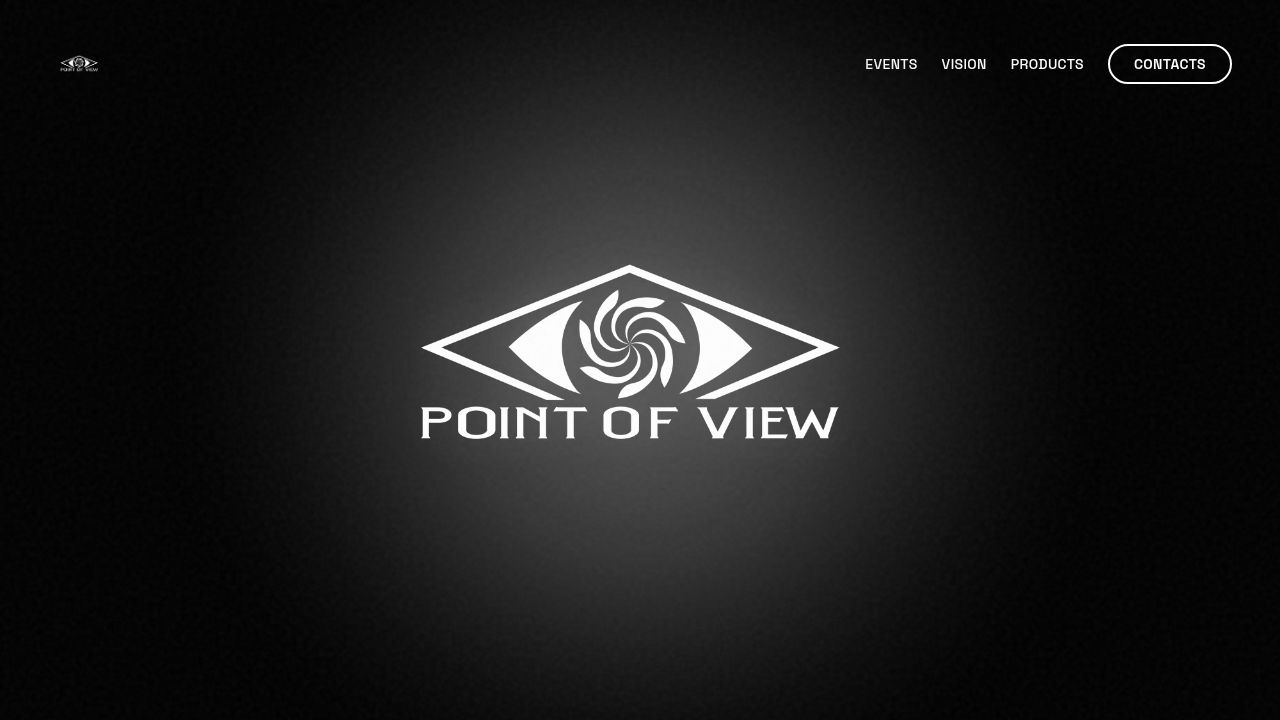
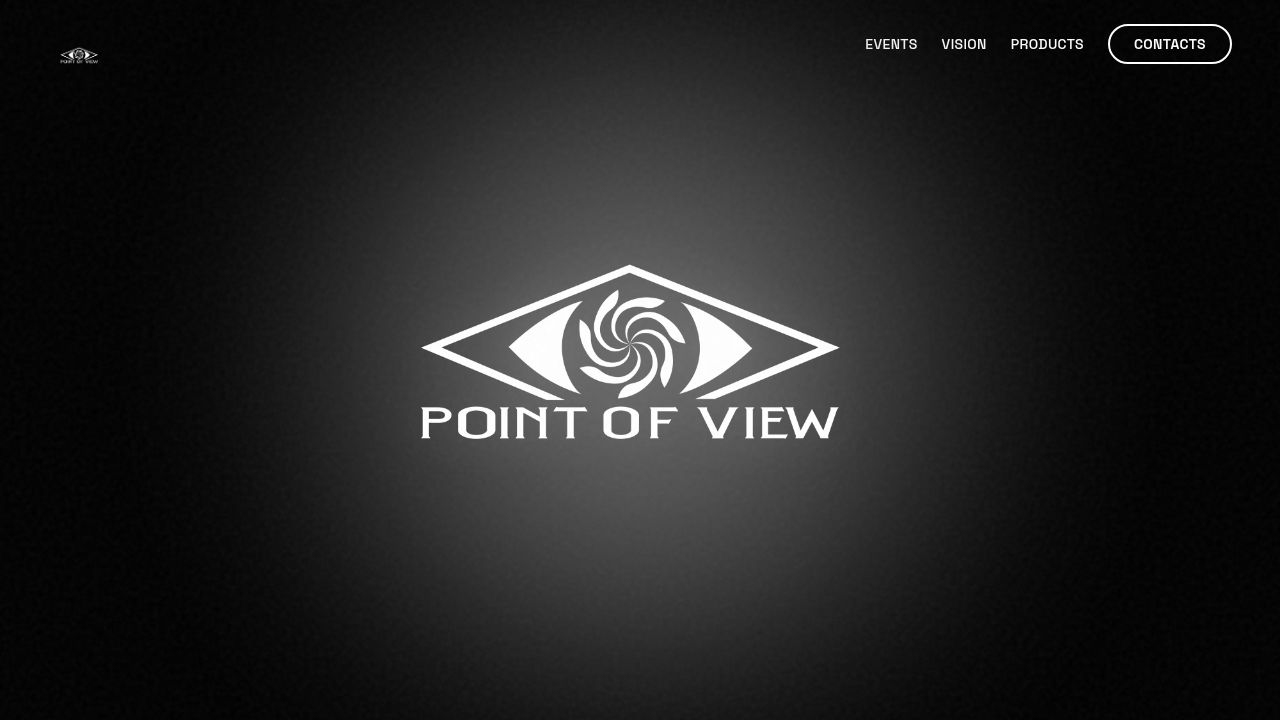
Update website layout and navigation for a streamlined user experience
Refactors the Footer, Navbar, Merch, and Upcoming sections.

Replit-Commit-Author: Agent
Replit-Commit-Session-Id: a3b98cef-a506-47ad-bfb3-af8684fe960b
Replit-Commit-Checkpoint-Type: full_checkpoint
Replit-Commit-Event-Id: 0f6fac4e-ea59-4f10-81f3-7915d06ba4cc
Replit-Commit-Screenshot-Url: https://storage.googleapis.com/screenshot-production-us-central1/5c714bc7-a615-4a5b-9aed-13d4d2fb1a74/a3b98cef-a506-47ad-bfb3-af8684fe960b/TEuVTtT
Replit-Helium-Checkpoint-Created: true

Changed region(s): [[0.6562, 0.0306, 0.9688, 0.1222], [0.0312, 0.0611, 0.0938, 0.0917]]

diff --git a/client/src/components/layout/Footer.tsx b/client/src/components/layout/Footer.tsx
@@ -1,18 +1,54 @@
+import { motion } from "framer-motion";
+
 export default function Footer() {
   return (
-    <footer id="contacts" className="py-12 px-6 md:px-12 bg-black border-t border-white/10 text-white">
-      <div className="max-w-7xl mx-auto flex flex-col md:flex-row justify-between items-center gap-8">
-        <div className="flex flex-col items-center md:items-start gap-2">
-          <h2 className="text-2xl font-display font-bold tracking-tight uppercase">Point Of View</h2>
-          <p className="text-xs text-white/40 font-body uppercase tracking-widest">
-            © {new Date().getFullYear()} Barcelona
-          </p>
+    <footer id="contacts" className="relative bg-black border-t border-white/10 text-white overflow-hidden">
+      {/* Creative Logo Background / Watermark */}
+      <div className="absolute top-1/2 left-1/2 -translate-x-1/2 -translate-y-1/2 opacity-[0.03] pointer-events-none w-[150vw] md:w-[80vw] max-w-[1200px] aspect-square flex items-center justify-center">
+        <motion.img 
+          src="/assets/logo-v2.png" 
+          alt="" 
+          className="w-full h-full object-contain mix-blend-screen filter grayscale"
+          animate={{ rotate: 360 }}
+          transition={{ duration: 100, repeat: Infinity, ease: "linear" }}
+        />
+      </div>
+
+      <div className="relative z-10 py-32 md:py-48 px-6 md:px-12 flex flex-col items-center justify-center text-center">
+        <span className="block text-xs font-bold uppercase tracking-widest text-white/50 mb-8">
+          (05) Connection
+        </span>
+        
+        <a 
+          href="https://www.instagram.com/pointofview.events/" 
+          target="_blank" 
+          rel="noopener noreferrer"
+          className="group block mb-12"
+        >
+          <h2 className="text-5xl md:text-8xl lg:text-9xl font-display font-black uppercase tracking-tighter leading-none hover:text-transparent hover:text-stroke transition-all duration-500">
+            Follow<br />The Vision
+          </h2>
+        </a>
+
+        <a 
+          href="mailto:pointofview.milan@gmail.com"
+          className="text-lg md:text-xl font-body text-white/60 hover:text-white transition-colors border-b border-white/20 hover:border-white pb-1"
+        >
+          pointofview.milan@gmail.com
+        </a>
+      </div>
+
+      <div className="relative z-10 border-t border-white/10 py-8 px-6 md:px-12 flex flex-col md:flex-row justify-between items-center gap-4 bg-black/50 backdrop-blur-sm">
+        <div className="flex items-center gap-2">
+          <span className="text-xl font-display font-bold tracking-tight uppercase">POV</span>
+          <span className="text-xs text-white/40 font-body uppercase tracking-widest">
+            © {new Date().getFullYear()}
+          </span>
         </div>
 
-        <div className="flex gap-8">
-          <a href="#" className="text-xs uppercase tracking-widest text-white/60 hover:text-white transition-colors">Instagram</a>
-          <a href="#" className="text-xs uppercase tracking-widest text-white/60 hover:text-white transition-colors">Resident Advisor</a>
-          <a href="#" className="text-xs uppercase tracking-widest text-white/60 hover:text-white transition-colors">Email</a>
+        <div className="flex gap-6">
+          <a href="#" className="text-[10px] uppercase tracking-widest text-white/40 hover:text-white transition-colors">Privacy</a>
+          <a href="#" className="text-[10px] uppercase tracking-widest text-white/40 hover:text-white transition-colors">Terms</a>
         </div>
       </div>
     </footer>

diff --git a/client/src/components/sections/Upcoming.tsx b/client/src/components/sections/Upcoming.tsx
@@ -4,19 +4,11 @@ import { motion, AnimatePresence } from "framer-motion";
 const upcomingEvents = [
   {
     id: 1,
-    date: "29 March – Barcelona",
+    city: "Barcelona",
+    date: "March 21",
+    venue: "Secret Location",
+    lineup: "Guest DJ & Performance",
     image: "/assets/calbi.jpg",
-    ticketOptions: [
-      { name: "Resident Advisor", url: "#" },
-      { name: "Xceed", url: "#" },
-      { name: "Shotgun", url: "#" },
-      { name: "Dice", url: "#" }
-    ]
-  },
-  {
-    id: 2,
-    date: "10 April – Lisbon",
-    image: "/assets/forum.jpg",
     ticketOptions: [
       { name: "Resident Advisor", url: "#" },
       { name: "Xceed", url: "#" },
@@ -90,22 +82,33 @@ export default function Upcoming() {
           </h2>
         </div>
 
-        <div className="grid grid-cols-1 md:grid-cols-2 gap-8 md:gap-12">
+        <div className="grid grid-cols-1 gap-12">
           {upcomingEvents.map((event, index) => (
-            <div key={event.id} className="group relative flex flex-col gap-6">
-              <div className="aspect-[3/4] md:aspect-[4/5] overflow-hidden w-full relative bg-white/5">
+            <div key={event.id} className="grid grid-cols-1 md:grid-cols-2 gap-8 md:gap-16 items-center">
+              <div className="aspect-[3/4] md:aspect-[4/5] overflow-hidden w-full relative bg-white/5 order-2 md:order-1">
                  <img
                   src={event.image}
-                  alt={`Event in ${event.date}`}
-                  className="w-full h-full object-cover transition-transform duration-700 group-hover:scale-105"
+                  alt={`Event in ${event.city}`}
+                  className="w-full h-full object-cover transition-transform duration-700 hover:scale-105"
                 />
               </div>
               
-              <div className="flex flex-col items-start gap-4">
-                <h3 className="text-2xl font-display uppercase font-medium">
-                  {event.date}
-                </h3>
-                <TicketDropdown options={event.ticketOptions} />
+              <div className="flex flex-col items-start gap-8 order-1 md:order-2">
+                <div className="flex flex-col gap-2 border-l border-white/20 pl-6 py-2">
+                  <p className="text-sm text-white/50 uppercase tracking-widest font-bold mb-2">Next Stop</p>
+                  <h3 className="text-5xl md:text-6xl font-display uppercase font-bold tracking-tight">
+                    {event.city}
+                  </h3>
+                  <div className="text-xl font-body text-white/80 mt-4 space-y-2">
+                    <p><span className="text-white/40">Date:</span> {event.date}</p>
+                    <p><span className="text-white/40">Venue:</span> {event.venue}</p>
+                    <p><span className="text-white/40">Line-up:</span> {event.lineup}</p>
+                  </div>
+                </div>
+                
+                <div className="mt-4">
+                  <TicketDropdown options={event.ticketOptions} />
+                </div>
               </div>
             </div>
           ))}

diff --git a/client/src/components/layout/Navbar.tsx b/client/src/components/layout/Navbar.tsx
@@ -4,31 +4,48 @@ import { Link } from "wouter";
 
 export default function Navbar() {
   const [scrolled, setScrolled] = useState(false);
+  const [visible, setVisible] = useState(true);
+  const [lastScrollY, setLastScrollY] = useState(0);
 
   useEffect(() => {
     const handleScroll = () => {
-      setScrolled(window.scrollY > 50);
+      const currentScrollY = window.scrollY;
+      
+      // Update scrolled state for styling
+      setScrolled(currentScrollY > 50);
+      
+      // Hide on scroll down, show on scroll up (or top of page)
+      if (currentScrollY < 50) {
+        setVisible(true);
+      } else if (currentScrollY > lastScrollY) {
+        setVisible(false);
+      } else {
+        setVisible(true);
+      }
+      
+      setLastScrollY(currentScrollY);
     };
-    window.addEventListener("scroll", handleScroll);
+    window.addEventListener("scroll", handleScroll, { passive: true });
     return () => window.removeEventListener("scroll", handleScroll);
-  }, []);
+  }, [lastScrollY]);
 
   return (
     <motion.nav
       initial={{ y: -100 }}
-      animate={{ y: 0 }}
-      transition={{ duration: 0.8, ease: [0.16, 1, 0.3, 1] }}
-      className={`fixed top-0 left-0 right-0 z-50 flex items-center justify-between px-6 py-6 md:px-12 transition-all duration-300 mix-blend-difference text-white ${
+      animate={{ y: visible ? 0 : -100 }}
+      transition={{ duration: 0.3, ease: "easeInOut" }}
+      className={`fixed top-0 left-0 right-0 z-50 flex items-center justify-between px-6 py-6 md:px-12 transition-colors duration-300 mix-blend-difference text-white ${
         scrolled ? "py-4" : "py-6"
       }`}
     >
+      {/* Logo always visible, but absolute positioned so it stays when nav translates up */}
       <Link href="/">
-        <a className="block hover:opacity-70 transition-opacity">
+        <a className={`fixed top-4 left-6 md:left-12 block hover:opacity-70 transition-opacity z-[60]`}>
           <img src="/assets/logo-v2.png" alt="Point Of View" className="h-16 w-auto md:h-20 rounded-full" />
         </a>
       </Link>
 
-      <div className="flex items-center gap-6 text-sm font-medium tracking-wide uppercase font-body">
+      <div className="flex items-center gap-6 text-sm font-medium tracking-wide uppercase font-body ml-auto">
         <a href="#events" className="hover:line-through decoration-1 underline-offset-4 transition-all hidden md:block">Events</a>
         <a href="#vision" className="hover:line-through decoration-1 underline-offset-4 transition-all hidden md:block">Vision</a>
         <a href="#products" className="hover:line-through decoration-1 underline-offset-4 transition-all hidden md:block">Products</a>

diff --git a/client/src/components/sections/Merch.tsx b/client/src/components/sections/Merch.tsx
@@ -20,7 +20,7 @@ export default function Merch() {
             POV Merch
           </h2>
         </div>
-        <button className="mt-8 md:mt-0 px-8 py-4 border-2 border-white rounded-full hover:bg-white hover:text-black transition-all duration-300 uppercase text-xs tracking-widest font-bold">
+        <button className="mt-8 md:mt-0 px-8 py-4 bg-white text-black rounded-full hover:bg-white/90 transition-all duration-300 uppercase text-xs tracking-widest font-black shadow-[0_0_20px_rgba(255,255,255,0.3)]">
           Visit E-Commerce
         </button>
       </div>
